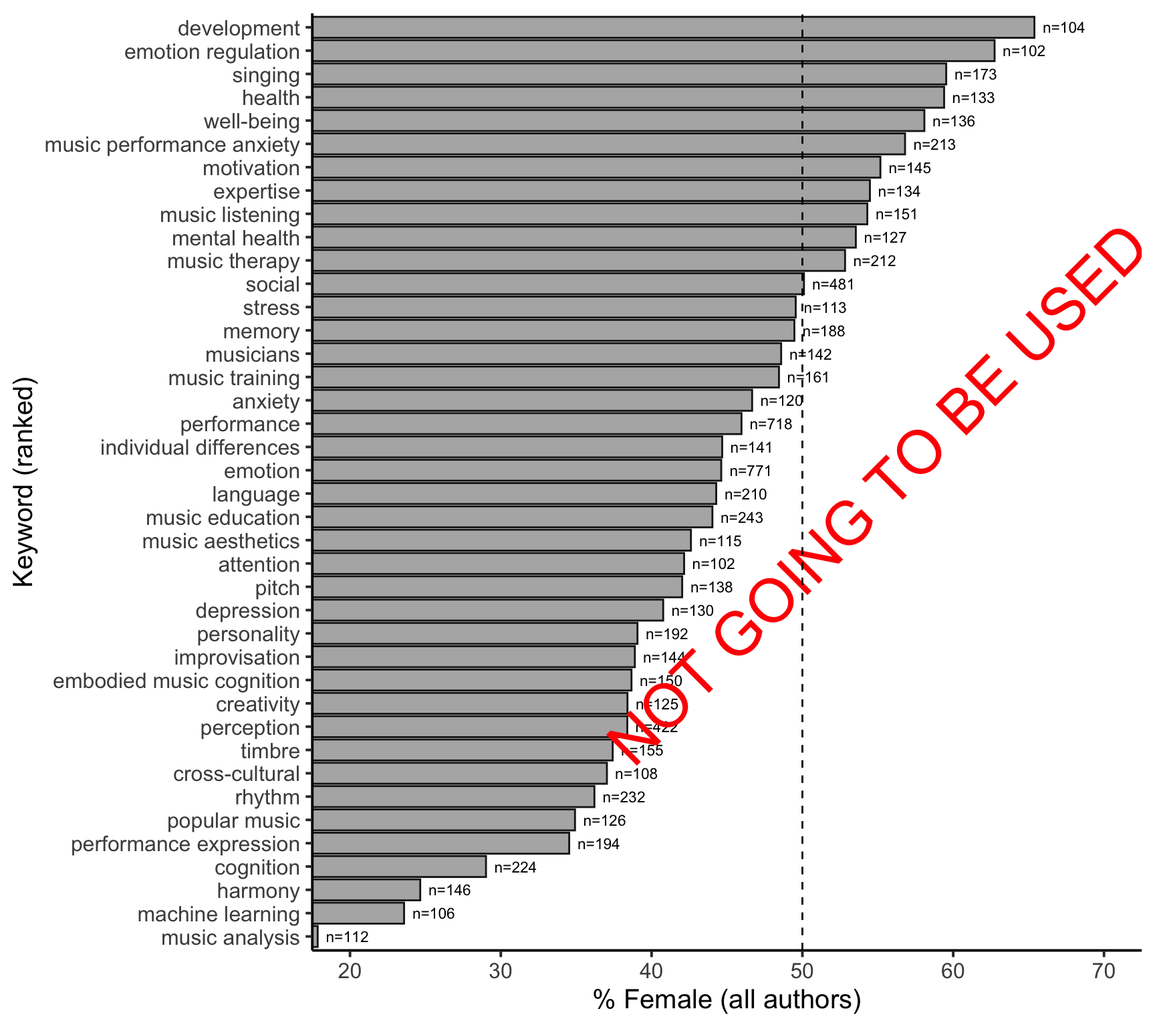
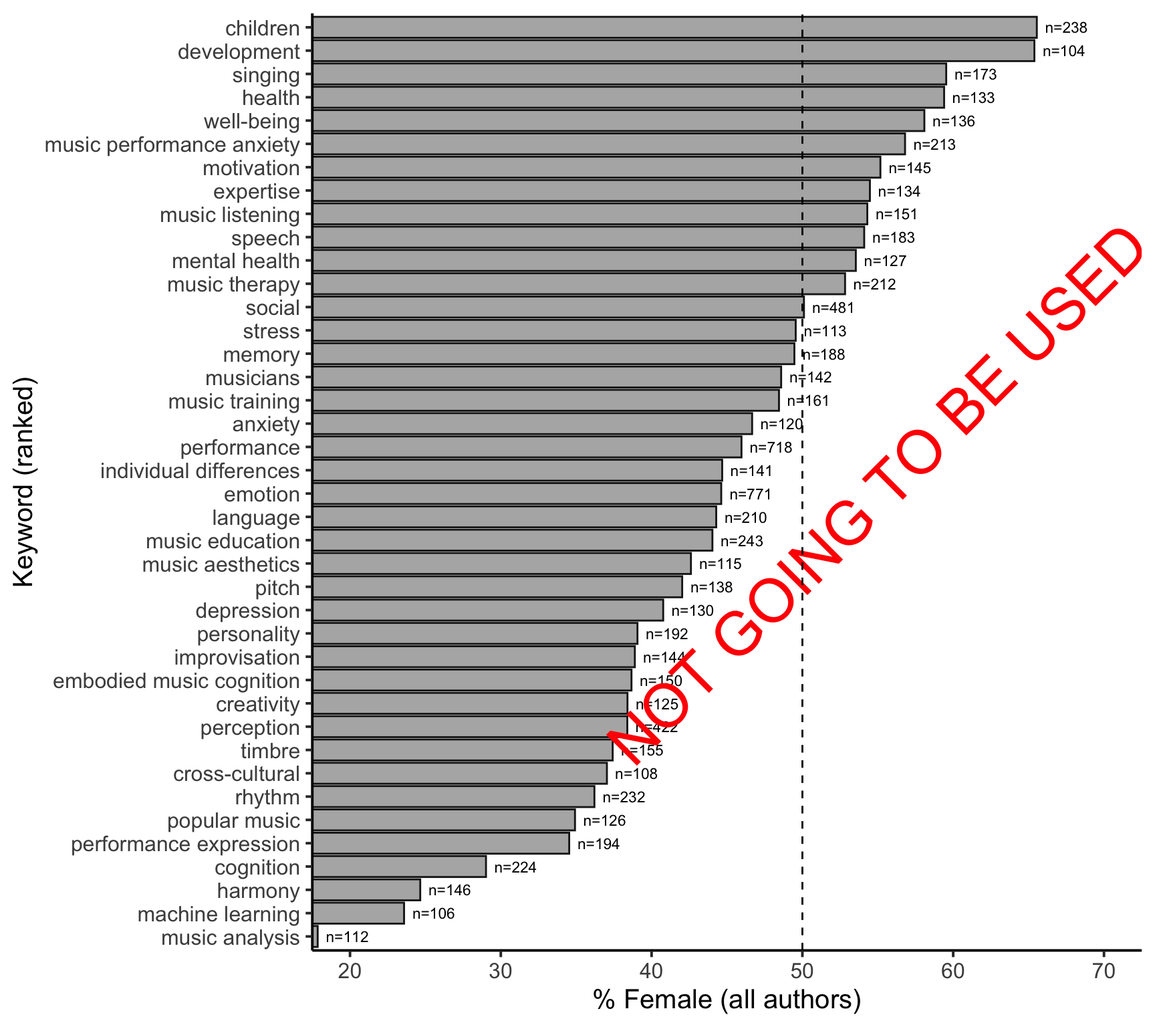
Anna's new improvements taken to ms

diff --git a/docs/manuscript/manuscript.html b/docs/manuscript/manuscript.html
@@ -203,7 +203,7 @@ window.Quarto = {
 <div>
   <div class="abstract">
     <div class="block-title">Abstract</div>
-    This study examines the gender distribution of authors in music psychology. A total of 3,373 papers published between 2000 and 2025 across five journals were analyzed with respect to author gender and authorship role (first, last, solo, coauthor). In addition, patterns related to citations, open-access publishing, and keywords were explored across gender. Overall, female authors were in the minority, accounting for 40.2% of all authors. However, the distribution of authorship roles diverged notably from this overall proportion: women were more likely to be first authors (OR = 1.41), equally likely to be solo authors (OR = 1.11) or coauthors (OR = 1.00), but less likely to be last authors (OR = 0.73). These patterns have become more pronounced over the past 15 years. No substantial gender differences in citation counts were observed. Analyses of geographical variation revealed clear cross-country differences, potentially reflecting both the status of women and the historical development of the discipline in particular regions. Finally, an examination of keywords suggested broad thematic preferences differing by gender.
+    Academia suffers from issues regarding equity, with one crucial aspect being academic authorship. Many studies have shown that there is a gender gap in publishing, where women are often underrepresented. As there are differences across disciplines, the goal of this study is to provide a current overview the gender distribution of authors within music psychology. A total of 3,373 papers published between 2000 and 2025 across five journals were analyzed with respect to author gender and authorship role (first, last, solo, coauthor). In addition, patterns related to citations, open-access publishing, and keywords were explored across gender. Overall, female authors were in the minority, accounting for 40.2% of all authors. However, the distribution of authorship roles diverged notably from this overall proportion: women were more likely to be first authors (OR = 1.41), equally likely to be solo authors (odds ratio, OR = 1.11) or coauthors (OR = 1.00), but less likely to be last authors (OR = 0.73). These patterns have become more pronounced over the past 15 years. No substantial gender differences in citation counts were observed. Analyses of geographical variation revealed clear cross-country differences, potentially reflecting both the status of women and the historical development of the discipline in particular regions. Finally, an examination of keywords suggested broad thematic preferences differing by gender. While overall some of this work shows that the field of music psychology is more balanced than some other field, especially in more STEM disciplines, providing such a picture hopefully inspires discussions and initiatives to promote fairness and more equity in academia.
   </div>
 </div>
 
@@ -221,7 +221,7 @@ window.Quarto = {
 <h1>Introduction</h1>
 <p>In recent years, meta-scientific attention has increasingly turned toward music psychology, with a focus on how WEIRD <span class="citation" data-cites="jakubowski2024">(<a href="#ref-jakubowski2024" role="doc-biblioref">Jakubowski et al., 2025</a>)</span> and transparent <span class="citation" data-cites="eerola2023transparency">(<a href="#ref-eerola2023transparency" role="doc-biblioref">Eerola, 2024</a>)</span> the discipline is. In this study, we examine gender equality in authorship as an indicator of how equitably gender is represented within the field. Disparities in gender distribution may signal structural barriers and disciplinary cultures that constrain the diversity of contributors and hinder optimal knowledge production <span class="citation" data-cites="ni2021gendered">(<a href="#ref-ni2021gendered" role="doc-biblioref">Ni et al., 2021</a>)</span>. Authorship visibility is also critical for academic career progression, influencing recognition, funding, and advancement opportunities. Establishing a clear understanding of gender representation in music psychology is therefore essential for supporting a more inclusive and sustainable academic community. Previous studies across various disciplines—including psychology—have consistently revealed persistent gender inequalities in authorship, though the extent of these disparities varies by field <span class="citation" data-cites="son2022scientific shah2021gender rock2021quantifying gonzalez2020women">(<a href="#ref-gonzalez2020women" role="doc-biblioref">González-Alvarez &amp; Sos-Peña, 2020</a>; <a href="#ref-rock2021quantifying" role="doc-biblioref">Rock et al., 2021</a>; <a href="#ref-shah2021gender" role="doc-biblioref">Shah et al., 2021</a>; <a href="#ref-son2022scientific" role="doc-biblioref">Son &amp; Bell, 2022</a>)</span>.</p>
 <p>Academia suffers from issues regarding equity. A lack equity impacts productivity, innovation, and job satisfaction in the workplace, which hugely impact academic progress. One aspect of this inequity is that gender. Women are more at a disadvantage than men, with evidence suggesting that women are less present in positions of power. For instance, in the UK in 2016-17, 24.6% of professors are women <span class="citation" data-cites="bhopal2021competing">(<a href="#ref-bhopal2021competing" role="doc-biblioref">Bhopal &amp; Henderson, 2021</a>)</span> when compared to the 44% of all grades in the UK academia <span class="citation" data-cites="harris2025gender">(<a href="#ref-harris2025gender" role="doc-biblioref">Harris et al., 2025</a>)</span>. A similar situation holds for italy (24% female professors) <span class="citation" data-cites="Filandri03082021">(<a href="#ref-Filandri03082021" role="doc-biblioref">Filandri &amp; Pasqua, 2021</a>)</span>, and to some extent for the US (14%) <span class="citation" data-cites="spoon2023">(<a href="#ref-spoon2023" role="doc-biblioref">Spoon et al., 2023</a>)</span>. A pay gap between men and women in academia is also significant, (e.g., female-male wage ratio is 0.85 in 2020 in the UK) <span class="citation" data-cites="quadlin2023higher">(<a href="#ref-quadlin2023higher" role="doc-biblioref">Quadlin et al., 2023</a>)</span>. In a “publish or perish” culture of science and academia <span class="citation" data-cites="kiai2019protect">(<a href="#ref-kiai2019protect" role="doc-biblioref">Kiai, 2019</a>)</span>, one crucial aspect to focus on is authorship. The number and quality (e.g., journal reputation) of authorships an individual determines crucial career development such as grant funding and future (permanent) positions.</p>
-<p>Research across several scientific disciplines that show that women tend to be less represented in authors compared to men <span class="citation" data-cites="banks2025women son2022scientific">(<a href="#ref-banks2025women" role="doc-biblioref">Banks et al., 2025</a>; <a href="#ref-son2022scientific" role="doc-biblioref">Son &amp; Bell, 2022</a>)</span>. Encouragingly, however, there is a general trend that the ratio of women to men in authorships is improving. From around 1960 to 2021, studies show a general improvement <span class="citation" data-cites="gonzalez2020women ioannidis2023gender jemielniak2025gender">(<a href="#ref-gonzalez2020women" role="doc-biblioref">González-Alvarez &amp; Sos-Peña, 2020</a>; <a href="#ref-ioannidis2023gender" role="doc-biblioref">Ioannidis et al., 2023</a>; <a href="#ref-jemielniak2025gender" role="doc-biblioref">Jemielniak &amp; Wilamowski, 2025</a>)</span>. However, there is evidence that this improvement is plateauing <span class="citation" data-cites="jemielniak2025gender">(<a href="#ref-jemielniak2025gender" role="doc-biblioref">Jemielniak &amp; Wilamowski, 2025</a>)</span> and that although women are more likely to be first author, women are still generally unfairly underrepresented as the last author <span class="citation" data-cites="gonzalez2020women rock2021quantifying shah2021gender">(<a href="#ref-gonzalez2020women" role="doc-biblioref">González-Alvarez &amp; Sos-Peña, 2020</a>; <a href="#ref-rock2021quantifying" role="doc-biblioref">Rock et al., 2021</a>; <a href="#ref-shah2021gender" role="doc-biblioref">Shah et al., 2021</a>)</span>. There could be several reasons for such a disparity: despite efforts to give fair credit for author contributions <span class="citation" data-cites="ni2021gendered">(<a href="#ref-ni2021gendered" role="doc-biblioref">Ni et al., 2021</a>)</span>, for example, using the Contributor Roles Taxonomy (CRediT) system, assigning authorships can be unclear. What counts as an authorship may also differ between academic disciplines. Women are more likely to experience authorship disagreements <span class="citation" data-cites="ni2021gendered">(<a href="#ref-ni2021gendered" role="doc-biblioref">Ni et al., 2021</a>)</span>. There are general disagreements of when to decide authorship - women preferring to discuss in earlier stages, but men choosing authorship at the final stage. Another reason could also come from parenthood and parental leave, which account for about ~40% of gender gap in career advancement <span class="citation" data-cites="nielsen2024getting">(<a href="#ref-nielsen2024getting" role="doc-biblioref">Nielsen et al., 2024</a>)</span>. Importantly, there are strides to improving this, with opinion papers discussing way to improve receipt and reporting of intellectual credit <span class="citation" data-cites="banks2025women">(<a href="#ref-banks2025women" role="doc-biblioref">Banks et al., 2025</a>)</span> as well as creating equitable environments in academic science <span class="citation" data-cites="martinez2024comparison">(<a href="#ref-martinez2024comparison" role="doc-biblioref">Martı́nez-Menéndez et al., 2024</a>)</span>.</p>
+<p>Research across several scientific disciplines that show that women tend to be less represented in authors compared to men <span class="citation" data-cites="banks2025women son2022scientific">(<a href="#ref-banks2025women" role="doc-biblioref">Banks et al., 2025</a>; <a href="#ref-son2022scientific" role="doc-biblioref">Son &amp; Bell, 2022</a>)</span>. Encouragingly, however, there is a general trend that the ratio of women to men in authorships is improving. From around 1960 to 2021, studies show a general improvement <span class="citation" data-cites="gonzalez2020women ioannidis2023gender jemielniak2025gender">(<a href="#ref-gonzalez2020women" role="doc-biblioref">González-Alvarez &amp; Sos-Peña, 2020</a>; <a href="#ref-ioannidis2023gender" role="doc-biblioref">Ioannidis et al., 2023</a>; <a href="#ref-jemielniak2025gender" role="doc-biblioref">Jemielniak &amp; Wilamowski, 2025</a>)</span>. Yet there is evidence that this improvement is plateauing <span class="citation" data-cites="jemielniak2025gender">(<a href="#ref-jemielniak2025gender" role="doc-biblioref">Jemielniak &amp; Wilamowski, 2025</a>)</span> and that although women are more likely to be first author, women are still generally unfairly underrepresented as the last author <span class="citation" data-cites="gonzalez2020women rock2021quantifying shah2021gender">(<a href="#ref-gonzalez2020women" role="doc-biblioref">González-Alvarez &amp; Sos-Peña, 2020</a>; <a href="#ref-rock2021quantifying" role="doc-biblioref">Rock et al., 2021</a>; <a href="#ref-shah2021gender" role="doc-biblioref">Shah et al., 2021</a>)</span>. There could be several reasons for such a disparity: despite efforts to give fair credit for author contributions <span class="citation" data-cites="ni2021gendered">(<a href="#ref-ni2021gendered" role="doc-biblioref">Ni et al., 2021</a>)</span>, for example, using the Contributor Roles Taxonomy (CRediT) system, assigning authorship can be unclear. What counts as an authorship may also differ between academic disciplines. Women are more likely to experience authorship disagreements, for example, when to decide authorship - women prefer to discuss in earlier stages, while men choose authorship at the final stage <span class="citation" data-cites="ni2021gendered">(<a href="#ref-ni2021gendered" role="doc-biblioref">Ni et al., 2021</a>)</span>. Another reason for the gender gap could also come from parenthood and parental leave, which account for about ~40% of gender gap in career advancement <span class="citation" data-cites="nielsen2024getting">(<a href="#ref-nielsen2024getting" role="doc-biblioref">Nielsen et al., 2024</a>)</span>. Importantly, there are strides to improving this, with opinion papers discussing way to improve receipt and reporting of intellectual credit <span class="citation" data-cites="banks2025women">(<a href="#ref-banks2025women" role="doc-biblioref">Banks et al., 2025</a>)</span> as well as creating equitable environments in academic science <span class="citation" data-cites="martinez2024comparison">(<a href="#ref-martinez2024comparison" role="doc-biblioref">Martı́nez-Menéndez et al., 2024</a>)</span>.</p>
 <p>It is important to recognise that fields of scholarship and academic disciplines vary considerably in terms of gender distribution <span class="citation" data-cites="huang2020">(<a href="#ref-huang2020" role="doc-biblioref">Huang et al., 2020</a>)</span>. For example, a large survey of authors by <span class="citation" data-cites="gonzalez2020women">González-Alvarez &amp; Sos-Peña (<a href="#ref-gonzalez2020women" role="doc-biblioref">2020</a>)</span> showed that the hard sciences (N = 119,592) had the lowest prevalence of women (14.8%), whereas in the biological and social sciences (N = 262,122) the proportion was substantially higher (43.3%). In psychology, which is perhaps the closest benchmark for the present focus on music psychology, female authors accounted for 45.2% of the sample (N = 90,067).</p>
 <p>To improve certain academic equity issues, it is worthwhile focusing on our discipline and to assess the equity in music psychology. The past efforts have already provided a snapshot a rough overview of the state of affairs (e.g., <span class="citation" data-cites="anglada2019visualizing">Anglada-Tort &amp; Sanfilippo (<a href="#ref-anglada2019visualizing" role="doc-biblioref">2019</a>)</span>) with suggestions of future directions to improve the field. <span class="citation" data-cites="eerola2023transparency">(<a href="#ref-eerola2023transparency" role="doc-biblioref">Eerola, 2024</a>)</span> showcases how Open Science practices (e.g., preregistrations, sharing research materials, data, and analysis scripts) are relatively limited, and encourage authors in the field to start implementing such practices. <span class="citation" data-cites="jakubowski2024">Jakubowski et al. (<a href="#ref-jakubowski2024" role="doc-biblioref">2025</a>)</span> explores participant samples and musical stimuli used across a wide range of experiment to give an idea of how limited or generalizable the field is, which the view to see how – as a field – we need to diversify participant samples and stimuli to gain a more realistic understanding. In a similar way to these papers, the current paper aims to give a current overview of authorship and gender patterns in the field of music psychology.</p>
 <section id="aims" class="level2">
@@ -236,9 +236,9 @@ window.Quarto = {
 <p>We retrieved bibliographic information for all articles published between 2000 and June 2025 from five specialist journals, resulting in 3,373 unique articles: Musicae Scientiae (N = 639), Psychology of Music (N = 1,231), Music Perception (N = 675), Journal of New Music Research (N = 563), and Music &amp; Science (N = 265). These journals have also been used in previous meta-science studies to characterise research practices in music psychology <span class="citation" data-cites="jakubowski2024">(<a href="#ref-jakubowski2024" role="doc-biblioref">Jakubowski et al., 2025</a>)</span>. Author affiliations were extracted automatically and converted into country-level data. However, these were not manually verified for each entry, as affiliations are not always clearly matched to individual authors due to variations in reporting conventions, such as multiple or partial affiliations.</p>
 <p>In total, the dataset included 9066 authors, of whom 5312 were unique. Author affiliations spanned 63 countries. We also extracted citation counts and Open Access status from Scopus. Information on joint first authorship was not available in the data.</p>
 <p>Gender attribution was initially based on first names. We recognise that treating gender as a binary category is inherently problematic. Gender is a complex and multidimensional social construct. However, consistent with prior meta-science research on gender and authorship <span class="citation" data-cites="son2022scientific shah2021gender rock2021quantifying ni2021gendered gonzalez2020women wais2006">(<a href="#ref-gonzalez2020women" role="doc-biblioref">González-Alvarez &amp; Sos-Peña, 2020</a>; <a href="#ref-ni2021gendered" role="doc-biblioref">Ni et al., 2021</a>; <a href="#ref-rock2021quantifying" role="doc-biblioref">Rock et al., 2021</a>; <a href="#ref-shah2021gender" role="doc-biblioref">Shah et al., 2021</a>; <a href="#ref-son2022scientific" role="doc-biblioref">Son &amp; Bell, 2022</a>; <a href="#ref-wais2006" role="doc-biblioref">Wais, 2006</a>)</span>, we adopt a binary classification—male and female—for analytical purposes and assume that first names allow for a reasonable, though imperfect, attribution of gender. We used the <em>genderize API</em> <span class="citation" data-cites="wais2006">(<a href="#ref-wais2006" role="doc-biblioref">Wais, 2006</a>)</span>, which predicts gender from first names and can be supplemented with country information derived from author affiliations to improve accuracy. This method resolved the gender of 89.3% of authors with a probability greater than 0.90. Only <code>89</code> names had a low attribution probability (&lt; 0.55). Unattributed cases were then checked manually, resulting in <code>185</code> manual corrections. After this process, <code>32</code> names remained ambiguous and <code>27</code> were unknown—some likely due to data entry errors in Scopus (e.g.&nbsp;only initials or surnames). These <code>59</code> cases were excluded from the dataset. It is likely that the due to challenge of attributing gender correctly not all the gender attributions are correct. Although genderize.io has been shown to achieve 96.6% accuracy in a diverse multinational test database without using a country of origin information – 98% with the information included – it also underperforms (82% accuracy) in Asian names <span class="citation" data-cites="vanhelene2024inferring">(<a href="#ref-vanhelene2024inferring" role="doc-biblioref">VanHelene et al., 2024</a>)</span>. However, the error rates of these processes have been previously been shown to be non-biased, i.e.&nbsp;showing similar number of mistakes for both genders <span class="citation" data-cites="sebo2021performance vanhelene2024inferring">(<a href="#ref-sebo2021performance" role="doc-biblioref">Sebo, 2021</a>; <a href="#ref-vanhelene2024inferring" role="doc-biblioref">VanHelene et al., 2024</a>)</span>.</p>
-<p>We carried out manual corrections of the gender attributions where we were familiar with the author or the database had the full first name coded with initials, or the second name used as the first name. This led to <code>32</code> corrections.</p>
+<p>We carried out manual corrections of the gender attributions where we were familiar with the author or the database had the full first name coded with initials, or the second name used as the first name. This led to <code>53</code> corrections.</p>
 <p>We defined four types of authorship positions: single authorship, first authorship (which does not include papers with a single author), coauthorship, and last authorship. Coauthorship includes all positions other than first and last. These positions carry different academic prestige: first authorship is typically associated with the primary contributor, while last authorship is often held by senior researchers with established reputations <span class="citation" data-cites="tscharntke2007author">(<a href="#ref-tscharntke2007author" role="doc-biblioref">Tscharntke et al., 2007</a>)</span>.</p>
-<p>For the analyses, we analysed gender disparities in authorship by comparing the frequency of these authorship types between male and female authors. Our analysis focused on the female author proportion (FAP) and odds ratios comparing the likelihood of occupying each authorship position by gender.</p>
+<p>For the analyses, we analysed gender disparities in authorship by comparing the frequency of these authorship types between male and female authors. Our analysis focused on the female author proportion (FAP) and odds ratios (ORs) comparing the likelihood of occupying each authorship position by gender.</p>
 </section>
 </section>
 <section id="results" class="level1">
@@ -246,7 +246,7 @@ window.Quarto = {
 <p>Among all authors (N = 9066), 40.2% (N = 3647) were identified as female. To account for the unequal number of male and female authors across the dataset, we used odds ratios (ORs) to compare the relative likelihood of females occupying different authorship positions. We first investigate the authorship types across gender and then examine the author order and the overall number of coauthors in more detail.</p>
 <section id="authorship-positions" class="level2">
 <h2 class="anchored" data-anchor-id="authorship-positions">Authorship positions</h2>
-<p>The overall odds ratio for women as first authors was 1.41 [95% CI: 1.28–1.54], indicating that the odds of first authorship are 41% higher for females compared to the male authors (Fisher’s exact test <em>p</em> &lt; .001). For coauthorship positions, the OR was 1.00 [0.91–1.09], suggesting no substantial gender difference (<em>p</em> = .96). In contrast, the odds ratio for women as last authors was 0.73 [0.67–0.81], indicating that the odds of last authorship are 27% lower for women compared to men and significantly different (<em>p</em> &lt; .001). Being a single author has odds ratio of 0.90 [0.78-1.05] for females, which suggests that while women are represented with relatively more single authored papers than men, the difference is not significant (<em>p</em> = .21).</p>
+<p>The overall OR for women as first authors was 1.41 [95% CI: 1.28–1.54], indicating that the odds of first authorship are 41% higher for females compared to the male authors (Fisher’s exact test <em>p</em> &lt; .001). For coauthorship positions, the OR was 1.00 [0.91–1.09], suggesting no substantial gender difference (<em>p</em> = .96). In contrast, the odds ratio for women as last authors was 0.73 [0.67–0.81], indicating that the odds of last authorship are 27% lower for women compared to men and significantly different (<em>p</em> &lt; .001). Being a single author has odds ratio of 0.90 [0.78-1.05] for females, which suggests that while women are represented with relatively more single authored papers than men, the difference is not significant (<em>p</em> = .21).</p>
 <p>To illustrate the trends across time in the authorship positions across the gender, we looked at 5-year-windows of the authorship types across gender, shown in Figure 1. The overall numbers across the whole data are illustrated in the first column of the graph and the remaining five columns portray the chronology in 5-year windows. The higher odds for female authors at first author position seems to be established in 2010 onwards. Female first author position exhibits a positive 5-year growth rate of +11.1%. The coauthor positions for female authors are relative stable at the odds around 1, indicating relatively equal odds between female and male authors. However, the last author positions have become relatively more rare after 2010, showing statistically significantly lower odds ratios from 2010 onwards and negative 5-year growth rate (-9.5%). The odds ratio for female single authored papers hovers around 1.0, showing no meaningful trend across the time.</p>
 <div class="cell">
 <div class="cell-output-display">
@@ -292,7 +292,7 @@ window.Quarto = {
 </section>
 <section id="gendered-topics-through-analysis-of-keywords" class="level2">
 <h2 class="anchored" data-anchor-id="gendered-topics-through-analysis-of-keywords">Gendered topics through analysis of keywords</h2>
-<p>To explore the potential differences within music psychology topics of choice between female and males, we analysed the keywords in the articles (15,316 in total, 6730 unique). To reduce variant keywords, we manually simplified the variants (e.g., “arts in health”, “healthy music use”, “health musicking” were converted to “music health” and “music cognition” to “cognition” and “music perception” to “perception”) and eliminated single use of the term “music”. We aggregated the counts of keywords across all authors in the articles and Figure 4 shows the odds ratios for female authors to be associated (in any author position) with the 40 most frequently used keywords. The keywords signifying related to development, emotion regulation, well-being, music performance anxiety, motivation, expertise, music listening, mental health, and music therapy show significantly higher odds ratios (OR <span class="math inline">\(\ge\)</span> 1.50) for females in comparison to overall gender ratios in the data. At the opposite end of this continuum, topics such as music analysis, machine learning, harmony, cognition, rhythm, and performance expression show the opposite trend, suggesting that the articles with these keywords tend to have overall more prevalent male authorships (female OR <span class="math inline">\(\le\)</span> 0.75).</p>
+<p>To explore the potential differences within music psychology topics of choice between female and males, we analysed the keywords in the articles (15,316 in total, 6730 unique). To reduce variant keywords, we manually simplified the variants (e.g., “arts in health”, “healthy music use”, “health musicking” were converted to “music health” and “music cognition” to “cognition” and “music perception” to “perception”) and eliminated single use of the term “music”. We aggregated the counts of keywords across all authors in the articles and Figure 4 shows the odds ratios for female authors to be associated (in any author position) with the 40 most frequently used keywords. The keywords signifying related to children, development, emotion regulation, well-being, music performance anxiety, motivation, expertise, music listening, mental health, and music therapy show significantly higher odds ratios (OR <span class="math inline">\(\ge\)</span> 1.50) for females in comparison to overall gender ratios in the data. At the opposite end of this continuum, topics such as music analysis, machine learning, harmony, cognition, rhythm, and performance expression show the opposite trend, suggesting that the articles with these keywords tend to have overall more prevalent male authorships (female OR <span class="math inline">\(\le\)</span> 0.75).</p>
 <div class="cell">
 <div class="cell-output-display">
 <div class="quarto-figure quarto-figure-center">
@@ -320,6 +320,10 @@ window.Quarto = {
 </div>
 </div>
 </section>
+</section>
+<section id="discussion" class="level1">
+<h1>Discussion</h1>
+<p>Authorship is a crucial aspect in academia as a marker of scholarly success and strongly influences academic career progression, influencing recognition, funding, and advancement opportunities. However, there are several unequities within this aspect of academia, with women often being underrepresented. As such representations differ across different disciplines, it is worthwhile understanding how The goal of the current paper was to provide a snapshot of authorship across gender. While we recognise that gender is a complex and multidimensional social construct, and there are limitations to treating gender as a binary category, we used a binary male-female classification consistent with prior meta-science research on gender and authorship <span class="citation" data-cites="son2022scientific shah2021gender rock2021quantifying ni2021gendered gonzalez2020women wais2006">(<a href="#ref-gonzalez2020women" role="doc-biblioref">González-Alvarez &amp; Sos-Peña, 2020</a>; <a href="#ref-ni2021gendered" role="doc-biblioref">Ni et al., 2021</a>; <a href="#ref-rock2021quantifying" role="doc-biblioref">Rock et al., 2021</a>; <a href="#ref-shah2021gender" role="doc-biblioref">Shah et al., 2021</a>; <a href="#ref-son2022scientific" role="doc-biblioref">Son &amp; Bell, 2022</a>; <a href="#ref-wais2006" role="doc-biblioref">Wais, 2006</a>)</span>. Overall, we see a relatively encouraging pattern within</p>
 </section>
 <section id="conclusions" class="level1">
 <h1>Conclusions</h1>
